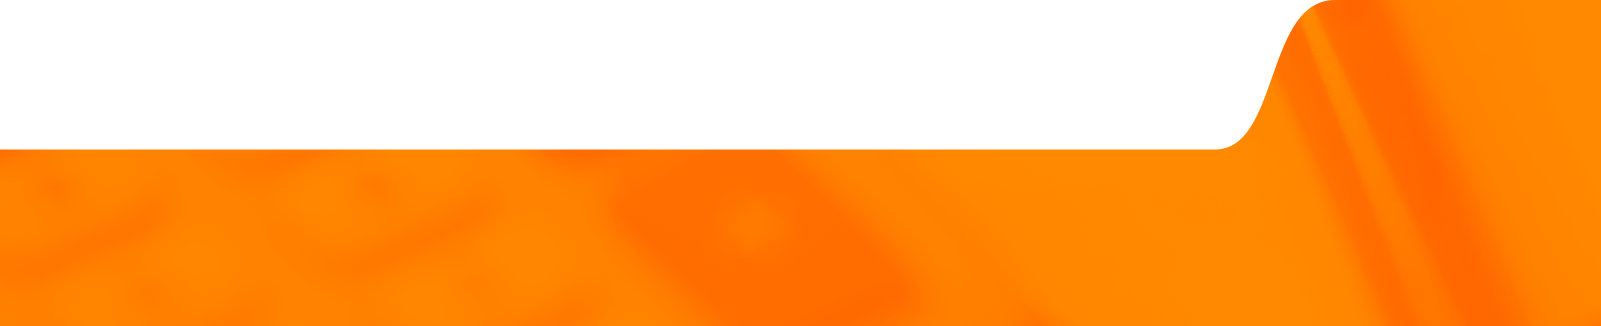
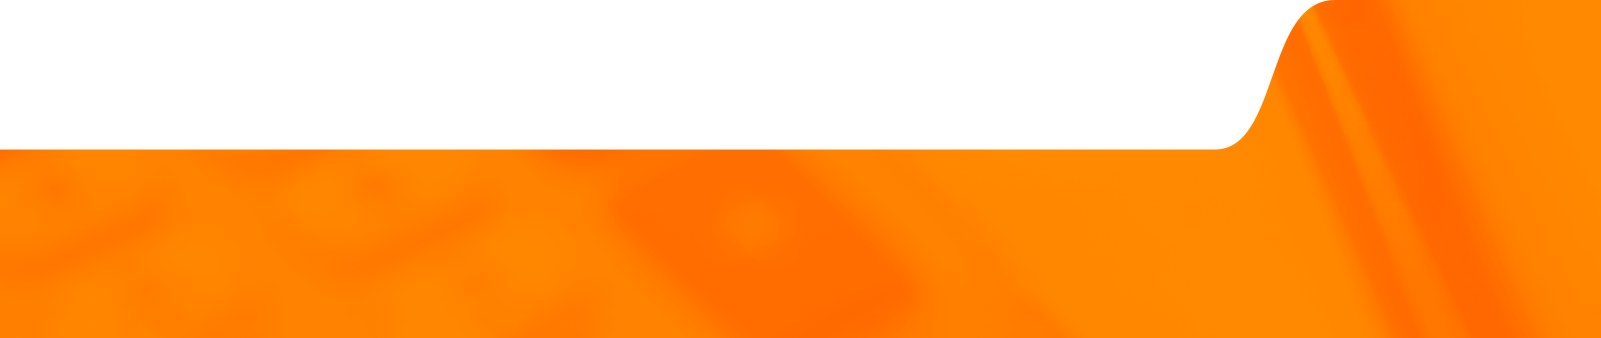
bugfix bg in footer

Changed region(s): [[0.0, 0.3988, 0.7808, 0.4601]]

diff --git a/src/assets/sass/blocks/_footer.sass b/src/assets/sass/blocks/_footer.sass
@@ -79,7 +79,7 @@
       right: 0
       top: -150px
       width: 1601px
-      height: 328px
+      height: 340px
       z-index: 5
 
       background-image: url('../images/bg-bottom-tablet.png')
